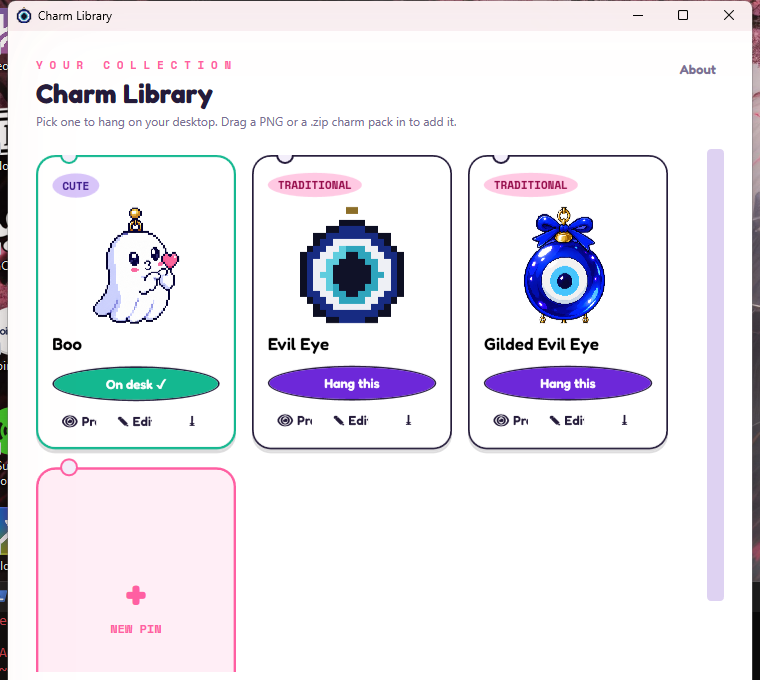
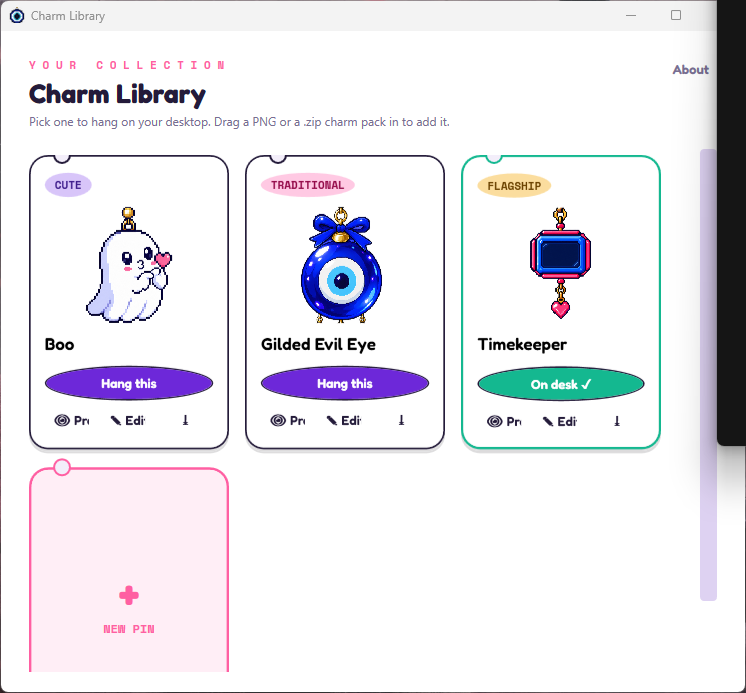
Remove the Evil Eye charm from the collection
Boo, Gilded Evil Eye, and Timekeeper remain. Also refreshes the
Charm Library screenshot in packaging/, which still showed it.

Changed region(s): [[0.0, 0.0, 1.0, 1.0], [0.0925, 0.2779, 0.2466, 0.4941], [0.1233, 0.8338, 0.2158, 0.9265]]

diff --git a/src/CharmDesk.Tests/CharmRegistryTests.cs b/src/CharmDesk.Tests/CharmRegistryTests.cs
@@ -136,7 +136,7 @@ public sealed class CharmRegistryTests : IDisposable
         // installed gets an update that bundles an additional charm - it should still reach
         // them, not just fresh installs with an empty charms folder.
         var bundledDir = Path.Combine(Path.GetTempPath(), "CharmDeskTests", Guid.NewGuid().ToString("N") + "_bundled");
-        WriteBundledCharm(bundledDir, "evil-eye", "Evil Eye");
+        WriteBundledCharm(bundledDir, "old-charm", "Old Charm");
         _registry.SyncBundledCharms(bundledDir);
         Assert.Single(_registry.LoadAll());
 
@@ -150,7 +150,7 @@ public sealed class CharmRegistryTests : IDisposable
 
         var all = _registry.LoadAll();
         Assert.Equal(3, all.Count);
-        Assert.Contains(all, p => p.Manifest.Id == "evil-eye");
+        Assert.Contains(all, p => p.Manifest.Id == "old-charm");
         Assert.Contains(all, p => p.Manifest.Id == "user-added");
         Assert.Contains(all, p => p.Manifest.Id == "cute-ghost");
 
@@ -164,16 +164,16 @@ public sealed class CharmRegistryTests : IDisposable
         // presence, so a bundled charm the user deleted via Charm Manager would silently come
         // back on the next sync. The caller (App.xaml.cs) now passes deleted ids as excludeIds.
         var bundledDir = Path.Combine(Path.GetTempPath(), "CharmDeskTests", Guid.NewGuid().ToString("N") + "_bundled");
-        WriteBundledCharm(bundledDir, "evil-eye", "Evil Eye");
+        WriteBundledCharm(bundledDir, "old-charm", "Old Charm");
         _registry.SyncBundledCharms(bundledDir);
-        Assert.NotNull(_registry.Find("evil-eye"));
+        Assert.NotNull(_registry.Find("old-charm"));
 
-        _registry.Delete(_registry.Find("evil-eye")!);
-        Assert.Null(_registry.Find("evil-eye"));
+        _registry.Delete(_registry.Find("old-charm")!);
+        Assert.Null(_registry.Find("old-charm"));
 
-        _registry.SyncBundledCharms(bundledDir, excludeIds: new[] { "evil-eye" });
+        _registry.SyncBundledCharms(bundledDir, excludeIds: new[] { "old-charm" });
 
-        Assert.Null(_registry.Find("evil-eye"));
+        Assert.Null(_registry.Find("old-charm"));
 
         Directory.Delete(bundledDir, recursive: true);
     }
@@ -184,18 +184,18 @@ public sealed class CharmRegistryTests : IDisposable
         // A charm the user has since edited via the Charm Manager must survive a re-sync of
         // the same bundled charm - matching by folder name must not mean "always overwrite".
         var bundledDir = Path.Combine(Path.GetTempPath(), "CharmDeskTests", Guid.NewGuid().ToString("N") + "_bundled");
-        WriteBundledCharm(bundledDir, "evil-eye", "Evil Eye");
+        WriteBundledCharm(bundledDir, "old-charm", "Old Charm");
         _registry.SyncBundledCharms(bundledDir);
 
-        var installed = _registry.Find("evil-eye")!;
-        installed.Manifest.Name = "My Custom Eye";
+        var installed = _registry.Find("old-charm")!;
+        installed.Manifest.Name = "My Custom Charm";
         installed.Manifest.DisplayScale = 2.0;
         _registry.Save(installed);
 
         _registry.SyncBundledCharms(bundledDir);
 
-        var reloaded = _registry.Find("evil-eye")!;
-        Assert.Equal("My Custom Eye", reloaded.Manifest.Name);
+        var reloaded = _registry.Find("old-charm")!;
+        Assert.Equal("My Custom Charm", reloaded.Manifest.Name);
         Assert.Equal(2.0, reloaded.Manifest.DisplayScale);
     }
 

diff --git a/README.md b/README.md
@@ -13,7 +13,7 @@
 
 ---
 
-CharmDesk pins a collectible charm — an evil eye, a ghost, whatever you add next — to the top
+CharmDesk pins a collectible charm — a gilded evil eye, a ghost, whatever you add next — to the top
 of your screen. Grab it with your mouse, pull it, let go, and it swings and settles like an
 actual object on a string, not a CSS animation pretending to be one. It sits quietly in the
 system tray the rest of the time.
@@ -42,10 +42,9 @@ day, built as a real physics simulation instead of a sprite that jiggles on a ti
 
 <table>
 <tr>
-<td align="center" width="25%"><img src="charms/timekeeper/thumbnail.png" width="120"><br><b>Timekeeper</b><br><sub>Flagship - live clock</sub></td>
-<td align="center" width="25%"><img src="charms/evil-eye/thumbnail.png" width="120"><br><b>Evil Eye</b><br><sub>Traditional</sub></td>
-<td align="center" width="25%"><img src="charms/evil-eye-ornate/thumbnail.png" width="120"><br><b>Gilded Evil Eye</b><br><sub>Traditional</sub></td>
-<td align="center" width="25%"><img src="charms/cute-ghost/thumbnail.png" width="120"><br><b>Boo</b><br><sub>Cute</sub></td>
+<td align="center" width="33%"><img src="charms/timekeeper/thumbnail.png" width="120"><br><b>Timekeeper</b><br><sub>Flagship - live clock</sub></td>
+<td align="center" width="33%"><img src="charms/evil-eye-ornate/thumbnail.png" width="120"><br><b>Gilded Evil Eye</b><br><sub>Traditional</sub></td>
+<td align="center" width="33%"><img src="charms/cute-ghost/thumbnail.png" width="120"><br><b>Boo</b><br><sub>Cute</sub></td>
 </tr>
 </table>
 
@@ -61,7 +60,7 @@ next launch, no code involved:
 
 ```text
 charms/
-  evil-eye/
+  cute-ghost/
     manifest.json
     charm.png        # transparent PNG, pixel art recommended
     thumbnail.png
@@ -69,20 +68,21 @@ charms/
 
 ```json
 {
-  "id": "evil-eye",
-  "name": "Evil Eye",
-  "description": "A tiny protective hanging charm.",
-  "category": "Traditional",
+  "id": "cute-ghost",
+  "name": "Boo",
+  "description": "A friendly little ghost with a heart to give away.",
+  "category": "Cute",
   "image": "charm.png",
   "thumbnail": "thumbnail.png",
   "enabled": true,
   "displayScale": 1.0,
+  "reactionStyle": "Playful",
   "physics": {
-    "stringLength": 120,
+    "stringLength": 118,
     "gravity": 980,
-    "damping": 0.92,
+    "damping": 0.94,
     "stiffness": 0.15,
-    "mass": 1.0
+    "mass": 0.85
   }
 }
 ```

diff --git a/packaging/store-listing.md b/packaging/store-listing.md
@@ -16,7 +16,7 @@ string, with momentum that carries over naturally from the drag. Click it for a 
 double-click for a spin, or just leave it be and it'll sway on its own every so often.
 
 WHAT'S IN THE BOX
-• A small starting collection of charms — an evil eye, a gilded evil eye, a friendly ghost
+• A small starting collection of charms — a live-clock charm, a gilded evil eye, a friendly ghost
 • A Charm Library to browse, preview, and switch between them
 • A Charm Manager to import your own PNG art and tune its physics, personality, and size on
   live sliders — no code, no rebuild
